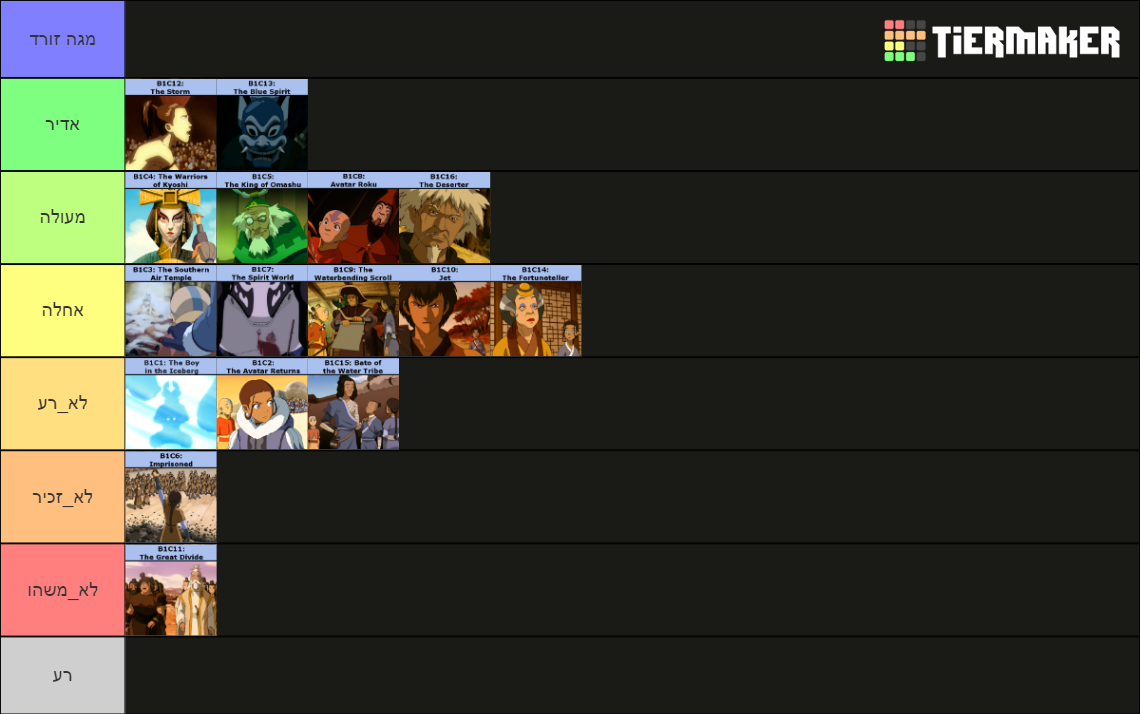
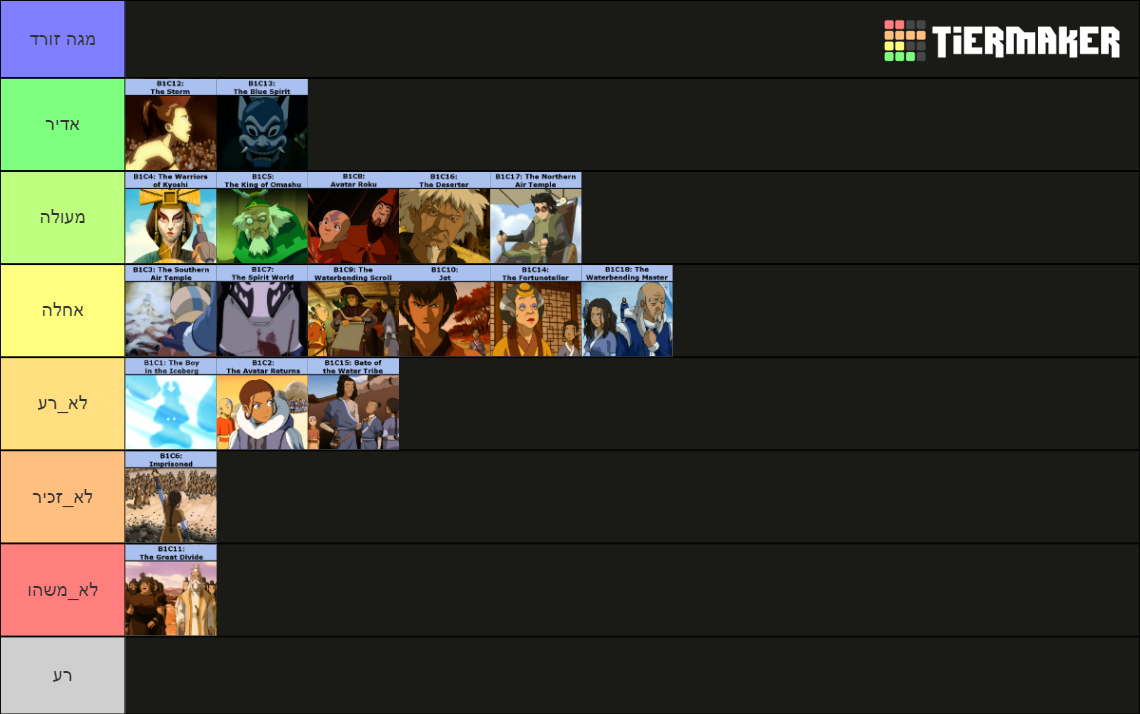
watch episodes 117-118

Changed region(s): [[0.4298, 0.2157, 0.614, 0.5238]]

diff --git a/עונה 1/118 - מאסטר כשפות המים.md b/עונה 1/118 - מאסטר כשפות המים.md
@@ -1,0 +1,28 @@
+## *תקציר:*
+- בשעה טובה ומוצלחת הגענו לקוטב הצפוני, והוא מרהיב. טים אווטאר זוכים ליחס של אורחי כבוד ונערכת להם קבלת פנים חגיגית. אנחנו פוגשים את מאסטר פאקו, שאחראי ללמד כשפות את בני שבט המים. והמילה בני קריטית, כי הבנות מוסללות ללמידה של כשפות ריפוי בלבד. קטארה זועמת כי פאקו לא מוכן ללמד אותה, ובסופו של דבר מאתגרת אותו לדו-קרב; קרב שבו היא מן הסתם לא מנצחת אבל מצליחה להרשים את פאקו מאוד. יש גם כל מיני דרמות שקשורות לעבר של gran gran (קאמבק מבורך) אבל זה לא מאוד מעניין. כל זה גורם לפאקו לשנות את דעתו וללמד את קטארה.
+- ברקע יש גם את תחילת הרומן הקטן של סוקה ויואה, נסיכת שבט המים הצפוני. זה ממש חמוד.
+- באותו הזמן, אדמירל ז'או מבין שטים אווטאר הגיעו לקוטב הצפוני ללמוד כשפות מים, ומחליט להוביל פלישה של אומת האש אל שבט המים הצפוני כדי לתפוס את אנג. בשביל זה הוא מנסה לגייס את דוד איירו, ובאותה הזדמנות מצליח להבין שזוקו הוא הרוח הכחולה. הכעס שלו מוביל אותו להזמין התנקשות בזוקו (😡) מהפיראטים (🤬🤬🤬). כן, הם חזרו לצערי. בסוף הפרק מגלים שאיירו חזה את זה, הספיק להציל את זוקו, וכעת הוא מסכים לשתף פעולה עם ז'או, אבל רק לכאורה.
+
+## *סיכום במשפט:*  
+blink and you'll miss it
+
+## *ראוי לציון:*  
+- העיצוב של שבט המים מרהיב.
+- ז'או קצת תופס אופי. העימות שלו עם זוקו היה קול. מי יודע אולי אנחנו לא באמת ניפטר ממנו כל כך מהר.
+- ערב ההווי של סגל הספינה של זוקו.
+- בונים פה יפה את התרבות של שבט המים.
+- סצנת הקרב של קטארה ופאקו ממש טובה ונראה שהושקעה הרבה מחשבה בנראות של כשפות המים.
+## *פחות התחברתי:*  
+- שובם של הפיראטים. איכס.
+- הפרק עמוס בטירוף בהתרחשויות וזו הפעם הראשונה שבה אורך הפרק הקצר מורגש כמגבלה. ה-pacing של הפרק הזה מטורלל והעריכה ברוטאלית. כל העלילות של הפרק היו עובדות הרבה יותר טוב אם היה להן יותר זמן לנשום, וההתפתחויות היו מרגישות טבעיות ומוצדקות יותר.
+- קו העלילה עם פאקו הוא החוליה החלשה בפרק הזה, בעיקר כי כמעט כל נקודה בה קורית מהר מדי, מוקדם מדי ובלי מספיק הצדקה. קטארה פתאום מכירה מלא moves שהיא לא הכירה לפני (אבל אני מסספנד את זה בקלות כי זעם אז מילא), אין שום הסבר למה פאקו לא מוכן ללמד נשים, והוא משנה את דעתו מהר מדי ובקלות מדי. אפשר גם לטעון שהגילוי על gran gran אפילו אמור להביא לתוצאה ההפוכה. מה גם, שפחות או יותר עסקנו בנושא הזה כבר בפרק 4 עם לוחמות הקיושי, ושם הביצוע היה הרבה הרבה יותר טוב. לסיכום, קו העלילה הזה סובל מאוד מזירוז ומזמן מסך קצר מדי.
+
+## *ה-MVP  של הפרק:*  
+קטארה. Duh.
+
+## *עתידות:*  
+- כיף ממש לראות את קטרה נהיית כשפית מים חזקה, ובהמשך לתחזית הקודמת שלי לדעתי הכיוון היה נכון. לאור הקפיצה המטורפת שראינו בפרק הזה, לדעתי עד סוף העונה היא הולכת להיות overpowered.
+- כשזה נוגע לתרבות יפן ולשפה היפנית אני אחד הבורים. אבל אחד הדברים היחידים שאני כן יודע זה שהמילה היפנית "יואה" משמעותה "ירח" (ראיתי סאקורה לוכדת הקלפים, ושם היה עם זה קטע שלם). זה ביחד עם הסצנה של יואה וסוקה בסוף הפרק על הגשר, כשברקע הירח מפריד ביניהם (מאוד מאוד דומיננטי), גורם לי לחשוב שגם בסדרה הזו מנסים לסמל לי משהו שקשור לזה.
+
+## *דירוג הפרק:*  
+אחלה

diff --git a/עונה 1/117 - מקדש האוויר הצפוני.md b/עונה 1/117 - מקדש האוויר הצפוני.md
@@ -1,0 +1,27 @@
+## *תקציר:*
+אנג מגלה שפליטים מאומת האדמה התיישבו במקדש האוויר הצפוני. בהתחלה הוא לא מרוצה מזה כי המנהיג שלהם, ממציא אקסצנטרי, מקדם הריסה של רוב המקדש המקורי כדי לפנות מקום למכשירים טכנולוגיים חדשים שהוא המציא. לבסוף מגלים כי הממציא מאוים כל הזמן על ידי אומת האש, ומספק להם מכונות מלחמה חדשות כמעין דמי פרוטקשן.
+טים אווטאר והפליטים הודפים את אומת האש ומצילים את המקדש. אנג משנה את דעתו לגבי התיישבות הפליטים במקדש, ואומר שהוא שמח שהם הפכו את המקדש לביתם.
+
+## *סיכום במשפט:*  
+דיידלוס ואיקרוס
+
+## *ראוי לציון:*  
+- אני ממש אוהב את אנג בפרק הזה, הוא מתחיל אותו ב-gatekeeping מובן לגמרי אבל גדל משם להכלה והומניזם
+- הדמות של הממציא, לדעתי מדמויות האורח המעניינות יותר שראינו עד כה.
+- תיאו גם דמות טובה. אני חושב שהוא אחלה מענטש. מאוד אוהב את האמירה של הפרק הזה, שהמאפיין הייחודי של נוודי האוויר הוא לא הכשפות שלהם אלא ה-spirit. לא חשבתי על זה עד עכשיו אבל זה ממש מתחבר לי.
+- + ניקוד על שילוב דמויות עם מוגבלויות. בעיני היופי באמירה של הסדרה הוא שאין שום אמירה בנושא. ולכן גם אני לא ארחיב.
+- התקדמות בצעדי ענק בתיאוריית "סוקה הוא הדמות החכמה" שלי. אני אומר לכם שעד סוף הסדרה הוא הולך להיות האסטרטג הראשי נגד אומת האש או משהו כזה. 
+- עד עכשיו היו בסדרה סצנות קרב אבל זו פעם ראשונה שאנחנו מקבלים סצנת מלחמה של ממש. והיא הייתה מצוינת.
+- הפרק מסתיים ברמיזה שאומת האש ייקחו את בלון המלחמה של סוקה ויתאימו אותו לצבא שלהם. מעניין לחשוב על האדפטיביות של צבא אומת האש. הסדרה מבססת ממש טוב את העוצמה שלהם ובונה מצוין את היראה מהם.
+
+## *פחות התחברתי:*  
+איפה. זוקו. 
+
+## *ה-MVP  של הפרק:*  
+אנג
+
+## *עתידות:*  
+נשארו רק עוד שלושה פרקים עד סוף העונה. אנחנו עדיין לא הגענו לקוטב הצפוני. אנג עדיין לא למד כשפות מים פרופר. זה צריך לקרות כל רגע.
+
+## *דירוג הפרק:*  
+מעולה

diff --git a/עונה 1/116 - העריק.md b/עונה 1/116 - העריק.md
@@ -10,7 +10,7 @@
 הכוח הפנימי
 
 ## *ראוי לציון:*  
-- - אני מאוד מחבב את כל הקטע של "האש מכלה". נראה כאילו ג'ונגי קצת מגזים עם כמה אש היא נוראית (מסיבותיו שלו), אבל זה אספקט נהדר של כשפות האש שנותן עומק. מעבר לצורך שהוצג בפרק לפתח סבלנות ושליטה עצמית, אני רואה איך זה בקלות מתרחב לכך שכשפי אש צריכים ללמוד להתגבר על יצר הזעם והנקמנות שטבוע בהם. בעיקר כי זה משהו שעשוי לבוא לידי ביטוי בהמשך הארק של זוקו.
+- אני מאוד מחבב את כל הקטע של "האש מכלה". נראה כאילו ג'ונגי קצת מגזים עם כמה אש היא נוראית (מסיבותיו שלו), אבל זה אספקט נהדר של כשפות האש שנותן עומק. מעבר לצורך שהוצג בפרק לפתח סבלנות ושליטה עצמית, אני רואה איך זה בקלות מתרחב לכך שכשפי אש צריכים ללמוד להתגבר על יצר הזעם והנקמנות שטבוע בהם. בעיקר כי זה משהו שעשוי לבוא לידי ביטוי בהמשך הארק של זוקו.
 - עוד על ג'ונג ג'ונג - אני חושב שהוא דמות די מעניינת. בהתחלה נראה שהוא נע איפשהו בין פחד לאשמה, אבל כשהוא אומר לקטרה שהלוואי שהוא היה נולד כשף מים ולא כשף אש - פה כבר יש אלמנטים של רחמים עצמיים שלא ציפיתי להם. 
 - אני מאוד אוהב את איך שהסדרה בונה את הדמות של אנג. בקלות הסדרה יכלה לעשות אותו מושלם וקדוש, אבל מראים לנו שוב ושוב שיש לו גם מגרעות ומזכירים לנו שהמסע האמיתי שלו בדרכו להיות האווטאר הוא לא ללמוד את הכשפויות (דבר שבינתיים בא לו מאוד בקלות) אלא להתבגר.
 - יכולות הריפוי של קטרה - מעניין מאוד. יכול להתפתח לכל מיני כיוונים טובים.
